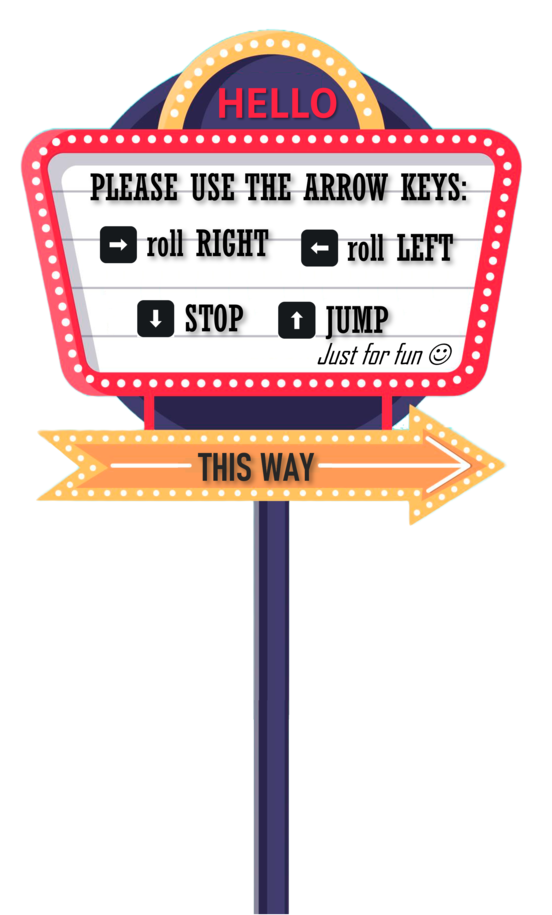
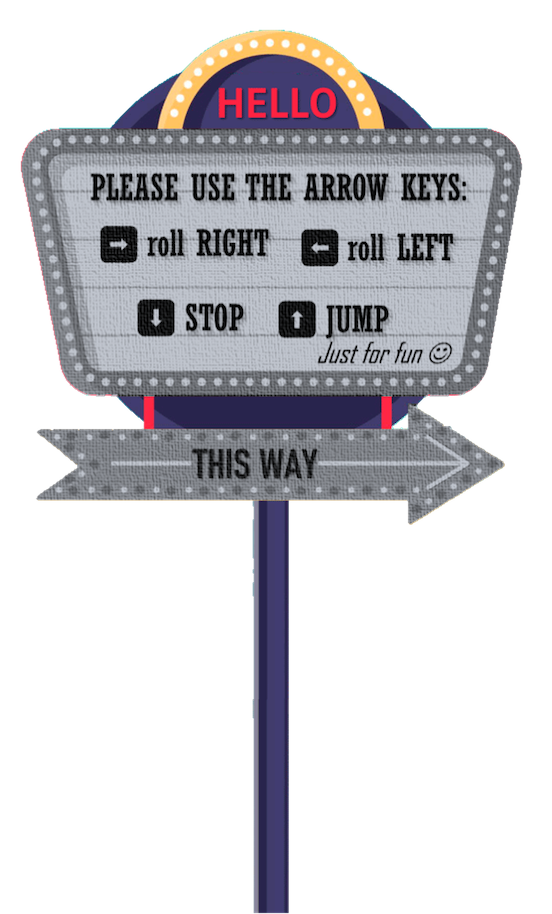
About-me page: added greyscale billboards; updated code when the skater rides next to a billboard.

Changed region(s): [[0.0308, 0.0919, 0.9547, 0.5821], [0.6467, 0.0613, 0.6775, 0.0919], [0.4312, 0.5821, 0.462, 0.6127]]

diff --git a/scripts/AboutScene.js b/scripts/AboutScene.js
@@ -1,48 +1,45 @@
 class AboutScene {
   #sceneSection = getById("about-scene");
   #center = SCREEN.centerX;
-  #speed = 1;
+  //#speed = 1;
+  #speed = 2;
   #animation = null;
 
   #start = SCREEN.centerX;
   #end = 4000;
   #animations = [
     {
-      start: 500,
-      end: 600,
       image: getById("about-billboard-1-arrow"),
     },
     {
-      start: 660,
-      end: 930,
       image: getById("about-billboard-2-girl"),
     },
     {
-      start: 1826,
-      end: 2065,
       image: getById("about-billboard-3-girl"),
     },
     {
-      start: 2600,
-      end: 2840,
       image: getById("about-billboard-4-balloon"),
     },
     {
-      start: 3133,
-      end: 3278,
       image: getById("about-billboard-5-butterfly"),
     },
   ];
 
   #layers = [
-    this.#initLayer("mountains", 0.1, true),
-    this.#initLayer("city-panorama", 0.2, true),
-    this.#initLayer("front-city", 0.3, true),
-    this.#initLayer("about-billboards", 0.8, false),
-    // this.#initLayer("about-billboards", 3, false),
-    this.#initLayer("park", 0.8, true),
-    this.#initLayer("about-road", 1, false),
-    this.#initLayer("grass", 2, true),
+    // this.#initLayer("mountains", 0.1, true),
+    // this.#initLayer("city-panorama", 0.2, true),
+    // this.#initLayer("front-city", 0.3, true),
+    // this.#initLayer("about-billboards", 0.8, false),
+    // this.#initLayer("park", 0.8, true),
+    // this.#initLayer("about-road", 1, false),
+    // this.#initLayer("grass", 2, true),
+    this.#initLayer("mountains", 0.2, true),
+    this.#initLayer("city-panorama", 0.4, true),
+    this.#initLayer("front-city", 0.6, true),
+    this.#initLayer("about-billboards", 1.6, false),
+    this.#initLayer("park", 1.6, true),
+    this.#initLayer("about-road", 2, false),
+    this.#initLayer("grass", 4, true),
   ];
 
   #initLayer(id, step, moveBackground) {
@@ -70,9 +67,10 @@ class AboutScene {
     }
     return true;
   }
-
+  skaterImg = getById("about-skater");
   // Returns true if the scene can move in a given direction. Otherwise, false.
   // For example, reaching the end of scene.
+
   move(direction, smoothFactor) {
     if (!this.canMove(direction)) return false;
 
@@ -96,11 +94,18 @@ class AboutScene {
   // Handles showing or hiding of animations on the billboards.
   #handleAnimations(direction) {
     if (this.#animation !== null) {
+      const skaterLeft = this.skaterImg.getBoundingClientRect().left; // skater's position relative to viewport
+      const skaterRight = this.skaterImg.getBoundingClientRect().right;
+      const skaterCenter = (skaterLeft + skaterRight) / 2;
+      const billboardLeft = this.#animation.image.getBoundingClientRect().left; // billboard's position relative to viewport
+      const billboardRight =
+        this.#animation.image.getBoundingClientRect().right;
       // There is the current animation. "Unmark" the current animation when the scene goes out of the current animation,
-      // so the scene can properly handle animation again when comes back.
+      //so the scene can properly handle animation again when comes back.
+
       if (
-        (direction === 1 && this.#animation.end < this.#center) ||
-        (direction === -1 && this.#animation.start > this.#center)
+        (direction === 1 && billboardRight < skaterCenter) ||
+        (direction === -1 && billboardLeft > skaterCenter)
       ) {
         this.#handleImage(false);
         this.#animation = null;
@@ -116,9 +121,14 @@ class AboutScene {
   }
 
   #getAnimation() {
+    const skaterLeft = this.skaterImg.getBoundingClientRect().left;
+    const skaterRight = this.skaterImg.getBoundingClientRect().right;
+    const skaterCenter = (skaterLeft + skaterRight) / 2;
     for (let i = 0; i < this.#animations.length; i++) {
       const animation = this.#animations[i];
-      if (this.#center >= animation.start && this.#center <= animation.end) {
+      const billboardLeft = animation.image.getBoundingClientRect().left;
+      const billboardRight = animation.image.getBoundingClientRect().right;
+      if (skaterCenter >= billboardLeft && skaterCenter <= billboardRight) {
         return animation;
       }
     }
@@ -129,7 +139,6 @@ class AboutScene {
 
   #handleImage(useGif) {
     const image = this.#animation.image;
-    console.log(image.src);
     image.src = useGif
       ? image.src.replace(".png", ".gif")
       : image.src.replace(".gif", ".png");

diff --git a/scripts/ProjectsScene.js b/scripts/ProjectsScene.js
@@ -8,28 +8,18 @@ class ProjectsScene {
   #end = 3880;
   #stops = [
     {
-      start: 730,
-      end: 760,
       image: getById("projects-billboard-1-tetris"),
     },
     {
-      start: 1480,
-      end: 1510,
       image: getById("projects-billboard-2-tetris"),
     },
     {
-      start: 2225,
-      end: 2255,
       image: getById("projects-billboard-3-tetris"),
     },
     {
-      start: 2880,
-      end: 2910,
       image: getById("projects-billboard-4-tetris"),
     },
     {
-      start: 3533,
-      end: 3563,
       image: getById("projects-billboard-5-tetris"),
     },
   ];
@@ -60,6 +50,7 @@ class ProjectsScene {
     this.#sceneSection.style.display = visible ? "block" : "none";
   }
 
+  skaterImg = getById("projects-skater");
   // Returns true if the scene can move in a given direction.
   canMove(direction) {
     if (
@@ -96,11 +87,17 @@ class ProjectsScene {
   // Returns true if there is no stop and can continue moving.
   #handleStops(direction) {
     if (this.#currentStop !== null) {
+      const skaterLeft = this.skaterImg.getBoundingClientRect().left; // skater's position relative to viewport
+      const skaterRight = this.skaterImg.getBoundingClientRect().right;
+      const billboardLeft =
+        this.#currentStop.image.getBoundingClientRect().left; // billboard's position relative to viewport
+      const billboardRight =
+        this.#currentStop.image.getBoundingClientRect().right;
       // There is the current stop. "Unmark" the current stop when the scene goes out of the current stop,
       // so the scene can properly stop again when comes back.
       if (
-        (direction === 1 && this.#currentStop.end < this.#center) ||
-        (direction === -1 && this.#currentStop.start > this.#center)
+        (direction === 1 && billboardRight < skaterRight) ||
+        (direction === -1 && billboardLeft > skaterLeft)
       ) {
         this.#handleImage(false);
         this.#currentStop = null;
@@ -119,9 +116,13 @@ class ProjectsScene {
   }
 
   #getStop() {
+    const skaterLeft = this.skaterImg.getBoundingClientRect().left;
+    const skaterRight = this.skaterImg.getBoundingClientRect().right;
     for (let i = 0; i < this.#stops.length; i++) {
       const stop = this.#stops[i];
-      if (this.#center >= stop.start && this.#center <= stop.end) {
+      const billboardLeft = stop.image.getBoundingClientRect().left;
+      const billboardRight = stop.image.getBoundingClientRect().right;
+      if (skaterLeft >= billboardLeft && skaterRight <= billboardRight) {
         return stop;
       }
     }

diff --git a/styles/about-me.css b/styles/about-me.css
@@ -52,45 +52,32 @@
 
 #about-billboard-1 {
   position: absolute;
-  left: 10%;
+  left: 33%;
   bottom: -1%;
 }
 
 #about-billboard-1-arrow {
-  width: 60%;
+  width: 55%;
   object-fit: contain;
 }
 
 #about-billboard-2 {
-  /* position: relative; */
-  /* height: 100%;
-  max-height: 57%; */
-  /* background: url(../images/about-me/billboard-2/billboard2Elvira.png) no-repeat;
-  background-size: contain; */
-  /* background-size: auto 100%; */
   left: 80%;
   bottom: -1%;
 }
 
 #about-billboard-2-girl {
   width: 80%;
-  /* height: 47%; */
-  /* position: absolute; */
   object-fit: contain;
 }
 
 #about-billboard-3 {
-  /* height: 100%;
-  max-height: 100%;
-  background: url(../images/about-me/billboard-3/billboard.png) no-repeat;
-  background-size: contain; */
   left: 180%;
   bottom: -3%;
 }
 
 #about-billboard-3-girl {
   width: 53%;
-  /* height: 24%; */
   object-fit: contain;
 }
 
@@ -101,27 +88,16 @@
 
 #about-billboard-4-balloon {
   width: 53%;
-  /* height: 24%; */
   object-fit: contain;
 }
 
 #about-billboard-5 {
-  /* height: 100%;
-  width: 100%;
-  max-height: 100%;
-  background: url(../images/about-me/billboard-5/billboard5.png) no-repeat;
-  background-size: contain;
-  position: absolute; */
   left: 320%;
   bottom: 0%;
 }
 
 #about-billboard-5-butterfly {
-  /* position: absolute; */
   width: 35%;
-  /* height: 22%;
-  bottom: 67%;
-  left: 27%; */
 }
 
 #about-road {

diff --git a/index.html b/index.html
@@ -73,7 +73,7 @@
             <div id="about-billboard-1">
               <img
                 id="about-billboard-1-arrow"
-                src="images/about-me/billboard-1/billboard1.png"
+                src="images/about-me/billboard-1/billboard1.gif"
               />
             </div>
             <div id="about-billboard-2" class="layer">

diff --git a/styles/main.css b/styles/main.css
@@ -24,7 +24,7 @@ body {
   height: 100%;
   width: 100%;
   max-height: 938px;
-/* bylo  max-height: 970px; */
+  /* bylo  max-height: 970px; */
   max-width: 1400px;
   min-width: 1300px;
   min-height: 701px;
@@ -182,7 +182,6 @@ body {
   bottom: 22%;
   left: 337%;
 }
-
 
 /*------------ Burger Menu Styles----------- */
 header {

diff --git a/scripts/Screen.js b/scripts/Screen.js
@@ -1,3 +1,3 @@
 class Screen {
-    centerX = 400;
+  centerX = 400;
 }
